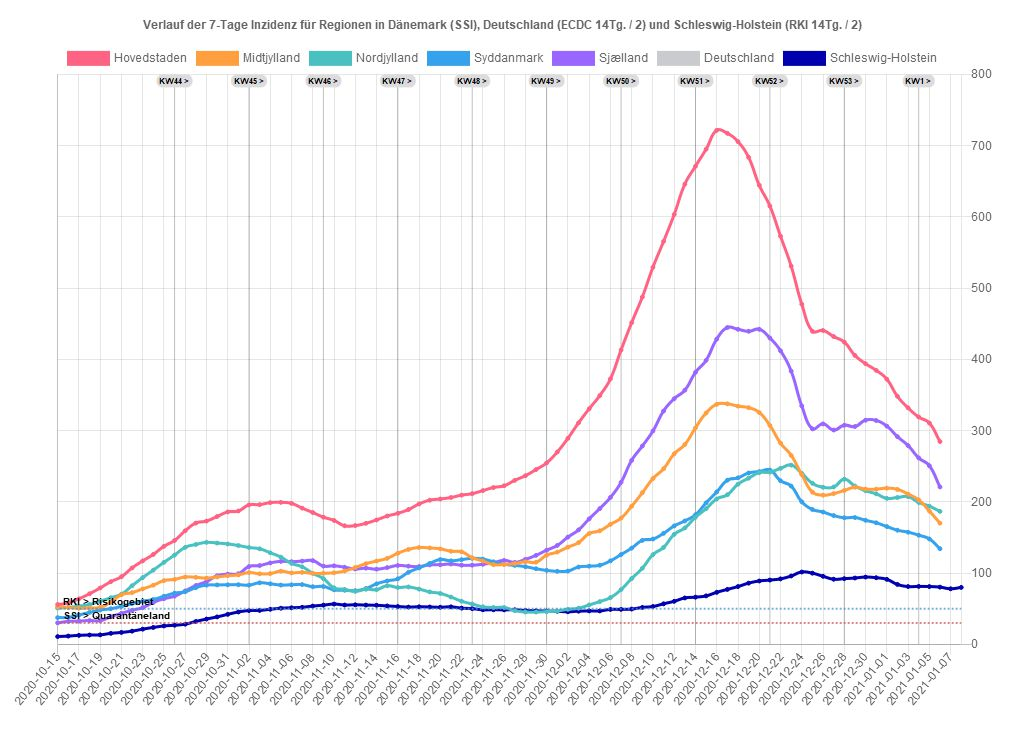
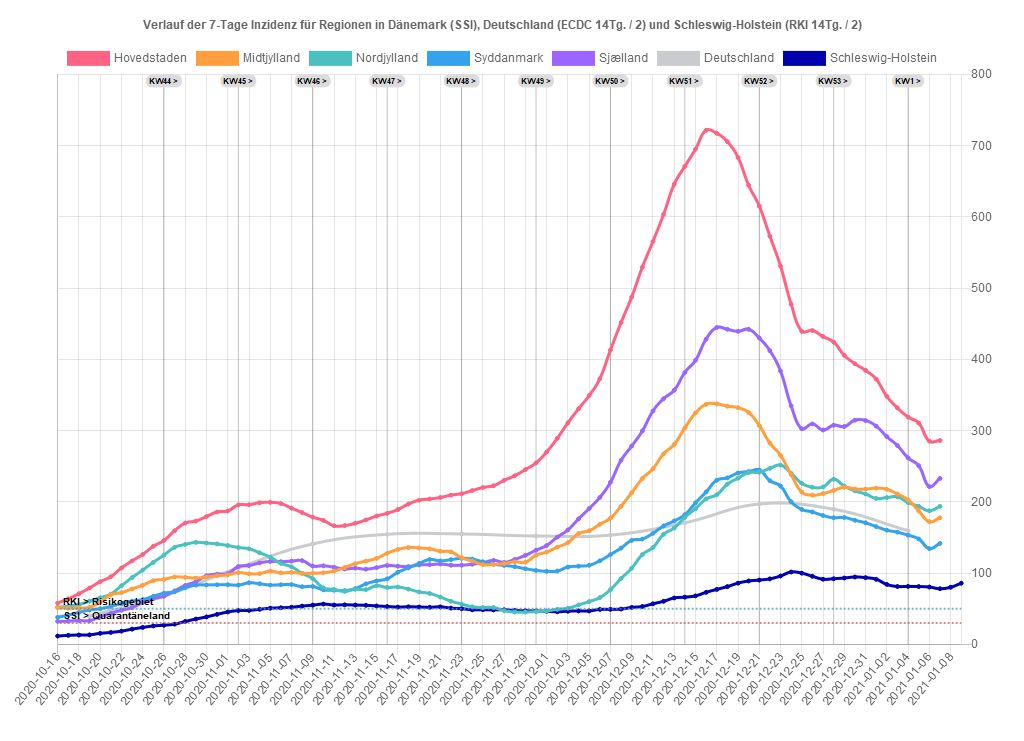
09.01.2021 14:20:41,58

diff --git a/dk/regioner.js b/dk/regioner.js
@@ -1,44 +1,44 @@
 var chdata={ type:'line',
-last_update: '2021-01-08',
-last_dk_data: '2021-01-06',
+last_update: '2021-01-09',
+last_dk_data: '2021-01-07',
 data: {
-labels: ["2020-10-15","2020-10-16","2020-10-17","2020-10-18","2020-10-19","2020-10-20","2020-10-21","2020-10-22","2020-10-23","2020-10-24","2020-10-25","2020-10-26","2020-10-27","2020-10-28","2020-10-29","2020-10-30","2020-10-31","2020-11-01","2020-11-02","2020-11-03","2020-11-04","2020-11-05","2020-11-06","2020-11-07","2020-11-08","2020-11-09","2020-11-10","2020-11-11","2020-11-12","2020-11-13","2020-11-14","2020-11-15","2020-11-16","2020-11-17","2020-11-18","2020-11-19","2020-11-20","2020-11-21","2020-11-22","2020-11-23","2020-11-24","2020-11-25","2020-11-26","2020-11-27","2020-11-28","2020-11-29","2020-11-30","2020-12-01","2020-12-02","2020-12-03","2020-12-04","2020-12-05","2020-12-06","2020-12-07","2020-12-08","2020-12-09","2020-12-10","2020-12-11","2020-12-12","2020-12-13","2020-12-14","2020-12-15","2020-12-16","2020-12-17","2020-12-18","2020-12-19","2020-12-20","2020-12-21","2020-12-22","2020-12-23","2020-12-24","2020-12-25","2020-12-26","2020-12-27","2020-12-28","2020-12-29","2020-12-30","2020-12-31","2021-01-01","2021-01-02","2021-01-03","2021-01-04","2021-01-05","2021-01-06","2021-01-07","2021-01-08"],
+labels: ["2020-10-16","2020-10-17","2020-10-18","2020-10-19","2020-10-20","2020-10-21","2020-10-22","2020-10-23","2020-10-24","2020-10-25","2020-10-26","2020-10-27","2020-10-28","2020-10-29","2020-10-30","2020-10-31","2020-11-01","2020-11-02","2020-11-03","2020-11-04","2020-11-05","2020-11-06","2020-11-07","2020-11-08","2020-11-09","2020-11-10","2020-11-11","2020-11-12","2020-11-13","2020-11-14","2020-11-15","2020-11-16","2020-11-17","2020-11-18","2020-11-19","2020-11-20","2020-11-21","2020-11-22","2020-11-23","2020-11-24","2020-11-25","2020-11-26","2020-11-27","2020-11-28","2020-11-29","2020-11-30","2020-12-01","2020-12-02","2020-12-03","2020-12-04","2020-12-05","2020-12-06","2020-12-07","2020-12-08","2020-12-09","2020-12-10","2020-12-11","2020-12-12","2020-12-13","2020-12-14","2020-12-15","2020-12-16","2020-12-17","2020-12-18","2020-12-19","2020-12-20","2020-12-21","2020-12-22","2020-12-23","2020-12-24","2020-12-25","2020-12-26","2020-12-27","2020-12-28","2020-12-29","2020-12-30","2020-12-31","2021-01-01","2021-01-02","2021-01-03","2021-01-04","2021-01-05","2021-01-06","2021-01-07","2021-01-08","2021-01-09"],
 datasets: [
 {label: 'Hovedstaden',
 backgroundColor: window.chartColors.red,
 borderColor: window.chartColors.red,
 fill: false,
-data: [55.9,58.0,63.9,71.0,79.1,87.9,94.9,107.2,117.1,126.2,137.6,145.8,159.4,170.2,173.0,179.4,185.8,187.2,195.7,196.1,198.9,199.3,197.8,191.2,185.0,178.5,173.9,166.4,166.7,169.9,174.6,180.1,183.9,189.2,197.0,202.3,204.0,206.1,209.4,211.5,215.8,220.1,222.6,230.2,236.7,245.3,254.7,270.0,289.2,310.9,330.6,349.2,372.7,413.1,451.6,487.5,529.3,565.6,603.4,645.9,671.0,695.0,721.5,717.3,705.6,683.5,644.4,615.2,572.9,530.9,477.5,439.4,440.5,432.0,424.2,405.6,393.9,384.6,372.2,348.1,331.9,319.1,310.6,284.6]},
+data: [58.0,63.9,71.0,79.1,87.9,94.9,107.2,117.1,126.2,137.6,145.8,159.4,170.2,173.0,179.4,185.8,187.2,195.7,196.0,198.8,199.3,197.7,191.1,185.0,178.5,173.9,166.4,166.7,169.9,174.6,180.1,183.9,189.2,197.0,202.3,204.0,206.1,209.4,211.5,215.8,220.1,222.6,230.2,236.7,245.3,254.7,270.0,289.2,310.9,330.6,349.2,372.7,413.1,451.6,487.5,529.3,565.6,603.4,645.9,671.0,695.0,721.5,717.3,705.6,683.5,644.4,615.2,572.9,530.9,477.5,439.4,440.5,432.0,424.2,405.6,393.9,384.6,372.2,348.1,331.9,319.1,310.7,285.2,286.1]},
 {label: 'Midtjylland',
 backgroundColor: window.chartColors.orange,
 borderColor: window.chartColors.orange,
 fill: false,
-data: [52.5,51.6,50.7,51.0,52.0,59.3,69.6,72.6,77.8,83.0,89.4,91.2,94.5,94.1,93.0,94.6,96.3,97.5,100.7,99.0,99.3,102.7,100.3,101.0,99.6,99.7,100.5,102.9,107.9,113.2,116.9,120.7,127.8,133.2,135.9,135.3,134.0,130.7,129.8,121.6,116.9,111.9,112.1,113.4,115.9,115.3,125.1,129.5,136.4,142.8,155.5,159.4,168.4,177.2,193.9,212.8,232.7,246.5,267.4,280.5,303.9,324.7,336.9,337.6,334.3,332.2,325.4,307.2,282.5,265.3,238.2,213.7,209.4,211.6,216.0,220.5,217.9,217.8,219.2,217.5,210.9,202.7,187.1,170.1]},
+data: [51.6,50.7,51.0,52.0,59.3,69.6,72.6,77.8,83.0,89.4,91.2,94.5,94.1,93.0,94.6,96.3,97.5,100.7,99.0,99.3,102.7,100.3,101.0,99.6,99.7,100.5,102.9,107.9,113.2,116.9,120.7,127.8,133.2,135.9,135.3,134.0,130.7,129.8,121.6,116.9,111.9,112.1,113.4,115.9,115.3,125.1,129.5,136.4,142.8,155.5,159.4,168.4,177.2,193.9,212.8,232.7,246.5,267.4,280.5,303.9,324.7,336.9,337.6,334.3,332.2,325.4,307.2,282.5,265.3,238.2,213.7,209.4,211.6,216.0,220.5,218.0,217.9,219.2,217.6,211.0,202.8,187.4,172.2,177.6]},
 {label: 'Nordjylland',
 backgroundColor: window.chartColors.green,
 borderColor: window.chartColors.green,
 fill: false,
-data: [50.9,51.9,53.6,55.9,60.5,65.4,70.5,82.2,93.7,104.2,115.1,125.3,136.1,140.2,143.1,142.2,140.9,138.7,135.9,134.1,128.5,122.4,113.6,108.8,99.7,92.2,79.3,77.1,74.4,77.3,76.8,82.2,79.8,80.5,77.5,73.6,71.4,66.4,60.5,56.6,52.7,51.7,51.7,47.3,45.4,45.3,45.9,46.8,49.2,50.7,55.3,60.0,65.6,76.8,92.4,106.8,125.9,136.1,154.4,163.4,178.3,190.4,204.1,210.0,224.8,233.2,241.0,241.7,247.0,251.6,240.0,226.1,220.5,220.9,231.7,222.2,215.6,211.2,204.9,206.1,207.3,199.2,193.9,186.6]},
+data: [51.9,53.6,55.9,60.5,65.4,70.5,82.2,93.7,104.2,115.1,125.3,136.1,140.2,143.1,142.2,140.9,138.7,135.9,134.1,128.5,122.4,113.6,108.8,99.7,92.2,79.3,77.1,74.4,77.3,76.8,82.2,79.8,80.5,77.5,73.6,71.4,66.4,60.5,56.6,52.7,51.7,51.7,47.3,45.4,45.3,45.9,46.8,49.2,50.7,55.3,60.0,65.6,76.8,92.4,106.8,125.9,136.1,154.4,163.4,178.3,190.4,204.1,210.0,224.8,233.2,241.0,241.7,247.0,251.6,240.0,226.1,220.5,220.9,231.7,222.2,215.4,211.0,204.8,206.0,207.1,199.0,193.7,187.5,193.7]},
 {label: 'Syddanmark',
 backgroundColor: window.chartColors.blue,
 borderColor: window.chartColors.blue,
 fill: false,
-data: [37.5,37.9,41.2,44.8,48.2,50.0,53.3,57.1,60.6,62.9,67.5,71.8,73.8,79.6,83.1,83.4,83.6,83.7,83.1,86.4,85.0,83.2,83.6,83.9,80.9,81.2,76.5,75.9,75.4,78.3,84.9,89.0,92.0,101.1,107.3,113.6,119.0,117.2,118.9,120.7,119.6,115.9,112.4,110.8,109.0,106.1,103.8,102.5,102.9,108.5,109.7,111.0,117.2,126.0,135.1,145.9,147.8,155.8,166.2,173.2,181.9,198.6,213.9,230.3,233.7,240.5,242.5,244.7,229.7,222.1,200.1,189.3,185.7,180.7,177.7,178.0,174.1,170.6,165.3,160.2,157.4,153.2,147.9,134.2]},
+data: [37.9,41.2,44.8,48.2,50.0,53.3,57.1,60.6,62.9,67.5,71.8,73.8,79.6,83.1,83.4,83.6,83.7,83.1,86.4,85.0,83.2,83.6,83.9,80.9,81.2,76.5,75.9,75.4,78.3,84.9,89.0,92.0,101.1,107.3,113.6,119.0,117.2,118.9,120.7,119.6,115.9,112.4,110.8,109.0,106.1,103.8,102.5,102.9,108.5,109.7,111.0,117.2,126.0,135.1,145.9,147.8,155.8,166.2,173.2,181.9,198.6,213.9,230.3,233.7,240.5,242.5,244.7,229.7,222.1,200.2,189.4,185.8,180.8,177.7,178.1,174.1,170.6,165.3,160.2,157.4,153.2,147.9,134.4,141.7]},
 {label: 'Sjælland',
 backgroundColor: window.chartColors.purple,
 borderColor: window.chartColors.purple,
 fill: false,
-data: [30.1,32.2,32.6,33.4,33.2,38.7,43.5,47.8,51.5,58.8,64.0,67.6,75.0,82.6,88.0,96.3,98.5,99.1,109.2,110.6,114.3,116.4,116.0,116.8,117.5,109.9,110.2,108.2,105.8,106.9,105.5,107.7,110.7,109.7,109.2,111.5,111.8,112.7,111.1,111.1,112.4,114.6,117.8,115.0,119.2,124.9,132.1,138.8,150.5,160.6,176.1,190.6,206.2,227.4,258.3,278.3,299.5,327.5,344.8,356.7,381.7,398.6,428.4,444.7,442.2,439.4,442.2,430.0,412.1,383.5,334.7,302.5,309.4,300.8,307.5,305.7,314.6,314.2,306.3,291.5,279.0,261.7,250.7,220.9]},
+data: [32.2,32.6,33.4,33.2,38.7,43.5,47.8,51.5,58.8,64.0,67.6,75.0,82.6,88.0,96.3,98.5,99.1,109.2,110.6,114.3,116.4,116.0,116.8,117.5,109.9,110.2,108.2,105.8,106.9,105.5,107.7,110.7,109.7,109.2,111.5,111.8,112.7,111.1,111.1,112.4,114.6,117.8,115.0,119.2,124.9,132.1,138.8,150.5,160.6,176.1,190.6,206.2,227.4,258.3,278.3,299.5,327.5,344.8,356.7,381.7,398.6,428.4,444.7,442.2,439.4,442.2,430.0,412.1,383.5,334.7,302.5,309.4,300.8,307.5,305.7,314.6,314.2,306.3,291.5,279.0,261.7,250.7,221.5,232.9]},
 {label: 'Deutschland',
 backgroundColor: window.chartColors.grey,
 borderColor: window.chartColors.grey,
 spanGaps: true,
 fill: false,
-data: [,,,,,,,,,,,,,,,,,,,,,,,,,,,,,,,,,,,,,,,,,,,,,,,,,,,,,,,,,,,,,,,,,,,,,,,,,,,,,,,,,,,,,]},
+data: [,,,39.6,,,,,,,67.8,,,,,,,107.6,,,,,,,140.9,,,,,,,154.4,,,,,,,154.9,,,,,,,152.1,,,,,,,153.3,,,,,,,170.6,,,,,,,196.9,,,,,,,189.6,,,,,,,159.5,,,,,]},
 {label: 'Schleswig-Holstein',
 backgroundColor: '#0000AF',
 borderColor: '#0000AF',
 fill: false,
-data: [10.9,11.6,12.6,13.1,13.3,15.4,16.7,18.5,21.3,23.7,25.8,26.8,28.3,32.1,35.5,38.5,42.1,45.4,47.4,47.6,49.2,50.7,51.3,52.0,53.7,55.0,56.5,55.2,55.5,55.1,54.8,53.9,53.1,52.3,52.7,52.4,52.0,52.6,50.8,50.1,48.5,48.6,48.4,48.5,47.5,47.1,46.7,46.4,45.7,46.5,46.9,46.9,49.0,49.1,49.5,51.8,53.1,56.9,60.4,65.1,66.2,68.0,73.0,77.1,81.1,85.9,88.9,90.2,91.9,95.9,101.5,99.9,95.5,91.4,92.2,93.1,94.4,93.5,91.2,84.1,81.1,81.3,81.1,80.3,78.0,79.9]}
+data: [11.6,12.6,13.1,13.3,15.4,16.7,18.5,21.3,23.7,25.8,26.8,28.3,32.1,35.5,38.5,42.1,45.4,47.4,47.6,49.2,50.7,51.3,52.0,53.7,55.0,56.5,55.2,55.5,55.1,54.8,53.9,53.1,52.3,52.7,52.4,52.0,52.6,50.8,50.1,48.5,48.6,48.4,48.5,47.5,47.1,46.7,46.4,45.7,46.5,46.9,46.9,49.0,49.1,49.5,51.8,53.1,56.9,60.4,65.1,66.2,68.0,73.0,77.1,81.0,85.9,88.9,90.2,91.9,95.9,101.5,99.9,95.5,91.4,92.1,93.1,94.5,93.6,91.3,84.1,81.2,81.3,81.1,80.4,78.1,80.1,85.8]}
 ]}};
 

diff --git a/sh/index_sh_alter.html b/sh/index_sh_alter.html
@@ -5,7 +5,7 @@
 <meta property="og:image" content="index_sh_alter.jpg" />
 <meta property="og:type" content="website" />
 <meta property="og:locale" content="de_DE" />
-<meta property="og:updated_time" content="2021-01-09T07:05:00+01:00" />
+<meta property="og:updated_time" content="2021-01-09T14:20:41+01:00" />
 <title>Altersverteilung der COVID-19-Fälle in Schleswig-Holstein</title>
 <link rel="stylesheet" href="../css/style.css" media="screen" type="text/css">
 <link rel="stylesheet" media="screen" href="Chart.min.css"> 

diff --git a/sh/index_pi_alter.html b/sh/index_pi_alter.html
@@ -5,7 +5,7 @@
 <meta property="og:image" content="index_pi_alter.jpg" />
 <meta property="og:type" content="website" />
 <meta property="og:locale" content="de_DE" />
-<meta property="og:updated_time" content="2021-01-09T07:05:00+01:00" />
+<meta property="og:updated_time" content="2021-01-09T14:20:41+01:00" />
 <title>Altersverteilung der COVID-19-Fälle im Kreis Pinneberg</title>
 <link rel="stylesheet" href="../css/style.css" media="screen" type="text/css">
 <link rel="stylesheet" media="screen" href="Chart.min.css"> 

diff --git a/sh/index.html b/sh/index.html
@@ -5,7 +5,7 @@
 <meta property="og:image" content="index.jpg" />
 <meta property="og:type" content="website" />
 <meta property="og:locale" content="de_DE" />
-<meta property="og:updated_time" content="2021-01-09T07:05:00+01:00" />
+<meta property="og:updated_time" content="2021-01-09T14:20:41+01:00" />
 <title>COVID-19-Fälle im Kreis Pinneberg</title>
 <link rel="stylesheet" href="../css/style.css" media="screen" type="text/css">
 <link rel="stylesheet" media="screen" href="Chart.min.css"> 
